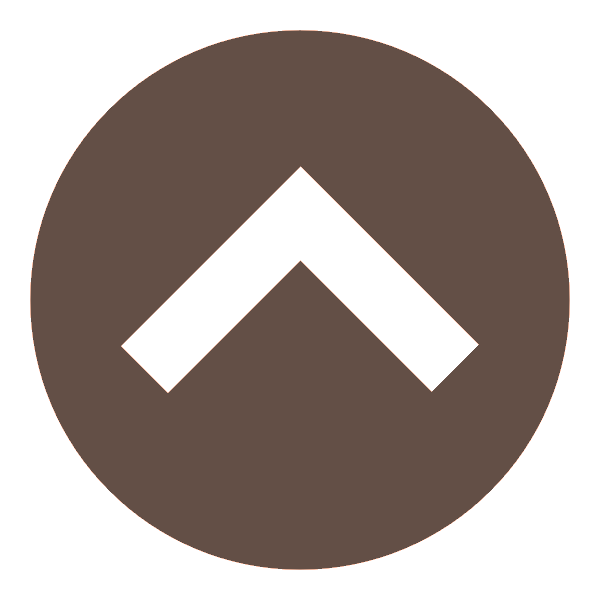
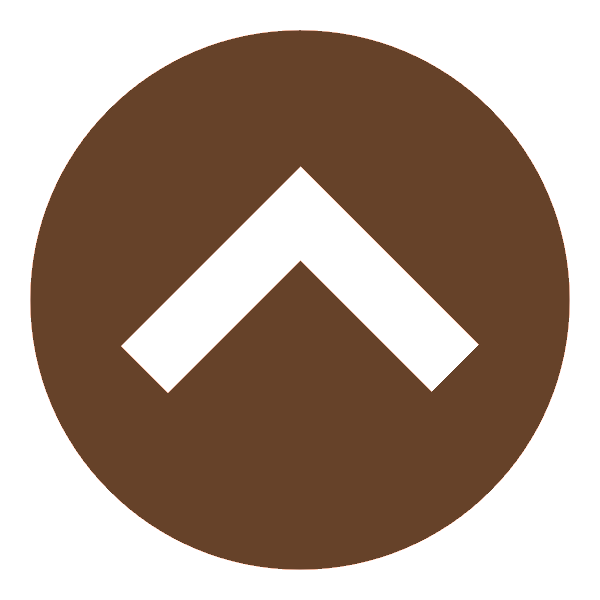
Atualizações de Interface e Páginas Adicionais [Incompleto - v2]

diff --git a/styles.css b/styles.css
@@ -82,16 +82,23 @@ header {
     transition: all 0.5s ease-in-out
 }
 
-#instagram-header {
-    transition: all 0.55s ease-in-out
-}
-
 #facebook-header:hover {
     transform: scale(1.2)
 }
 
+#instagram-header {
+    transition: all 0.55s ease-in-out
+}
 
 #instagram-header:hover {
+    transform: scale(1.2)
+}
+
+#whatsapp-header{
+    transition: all 0.5s ease-in-out
+}
+
+#whatsapp-header:hover{
     transform: scale(1.2)
 }
 
@@ -164,7 +171,8 @@ header {
 }
 
 .carrossel {
-    border: 1px solid black;
+    border: 1px solid #664229;
+    padding: 10px;
 }
 
 #novidades {
@@ -200,6 +208,9 @@ header {
 #quem-somos {
     grid-row: 1 / span 6;
     grid-column: 1 / span 4;
+    border: #664229 1px solid;
+    padding: 10px;
+
 }
 
 
@@ -218,53 +229,42 @@ header {
     background-color: white;
 }
 
-
-
-
-
-/* 
-#botao-lateral a {
-    display: flex;
-    text-decoration: none;
+#contato{
+    border: #664229 1px solid;
     text-align: center;
-    justify-content: center;
-    border-radius: 0 5px 5px 0px;
-    right: 0;
-    transition: 1s;
-    border-radius: 25px;
-    border: 1px solid transparent;
-    width: 50px;
-    margin-left: 10px;
-    position: absolute;
-    bottom: -1680px;
+
 }
 
-#botao-lateral i {
-    font-family: Arial, Helvetica, sans-serif;
-    padding-right: 25px;
-    padding-left: 25px;
-    font-size: 13px;
-    color: #987544;
-    padding-top: 10PX;
-    align-content: center;
+.formulario{
+    /* display: flex; */
+    flex-direction: column;
+    align-items: center;
+    border-top: #664229 1px solid;
+    padding: 30px;
+    
 }
 
-#botao-lateral a:hover {
-    right: 0px;
-    text-align: center;
+.formulario  select{
+    height: 40px;
+    width: 80%;
+    /* border: #664229 1px solid; */
+
 }
 
-#botao-lateral a:hover i {
-    display: ;
+.formulario  input{
+    height: 40px;
+    width: 80%;
+    /* border-radius: 5px; */
+    /* border: #664229 1px solid; */
+
 }
 
-#topo-pagina {
-    background-color: white;
-    opacity: 75%;
-    width: 60px;
-    right: 0;
+#mensagem{
+    margin-top: 10px;
+    height: 125px;
+    margin-bottom: 10px;
 }
- */
+
 
 
 
@@ -281,49 +281,60 @@ footer {
     left: 0;
     right: 0; */
     border: #987544 1px solid;
-    gap: 75px
+    gap: 75px;
+    color: #664229
 }
 
 .footer-1 {
     display: flex;
     gap: 15px;
     justify-self: flex-end;
-    margin-left: 4vw;
+    margin-left: 3.75vw;
 }
-
-.footer-cnpj{
-    width: 300px;
-}
-
 
 .footer-2 {
     display: flex;
     /* flex-direction: row; */
     margin-left: 15vw;
-    gap: 350px;
+    gap: 250px;
     justify-content: space-around;
 }
 
+.footer-2 a {
+    width: 100px;
+    align-self: center;
+}
+
 #facebook-footer {
-    transition: all 0.5s ease-in-out
-}
-
-#whatsapp-footer{
-    transition: all 0.5s ease-in-out
-}
-
-#instagram-footer {
-    transition: all 0.5s ease-in-out
+    transition: all 0.5s ease-in-out;
 }
 
 #facebook-footer:hover {
     transform: scale(1.2)
 }
 
+#instagram-footer {
+    transition: all 0.5s ease-in-out
+}
+
+#instagram-footer:hover {
+    transform: scale(1.2)
+}
+
+#whatsapp-footer{
+    transition: all 0.5s ease-in-out
+}
+
 #whatsapp-footer:hover{
     transform: scale(1.2)
 }
 
-#instagram-footer:hover {
+#topo-pagina {
+    width: 60px;
+    justify-self: flex-end;
+    transition: all 0.5s ease-in-out
+}
+
+#topo-pagina:hover {
     transform: scale(1.2)
 }

diff --git a/index.html b/index.html
@@ -24,6 +24,8 @@
                     width="40px" id="instagram-header"></a>
             <a href="https://facebook.com" target="_blank"><img src="Medias/facebook-icone.png" height="40px"
                     width="40px" class="facebook-icone" id="facebook-header"></a>
+            <a href="https://whatsapp.com" target="_blank"><img src="Medias/whatsapp-icone.png" height="40px"
+                    width="40px" id="whatsapp-header"></a>
         </section>
 
         <nav></nav>
@@ -41,7 +43,8 @@
 
         <section class="segunda-parte">
             <article id="quem-somos">
-                <h1>Quem Somos</h1>
+                <h1>Quem Somos</h1></br>
+                <p>texto teste</p>
             </article>
             <article class="carrossel" id="novidades">
                 <h1>Novidades</h1>
@@ -69,16 +72,29 @@
                     referrerpolicy="no-referrer-when-downgrade" id="mapa"></iframe>
             </article>
             <article class="sobre" id="contato">
+
                 <h1>Fale Conosco/Contato</h1>
+
+                <article class="formulario">
+                    <form action="#"></form>
+
+                    <input type="text" name="nome" id="nome" placeholder="Nome completo"></br>
+                    <input type="text" name="email" id="email" placeholder="E-mail"></br>
+                    <input type="tel" name="telefone" id="telefone" pattern="[0-9]{2}-[0-9]{4}-[0-9]{5}" required
+                        placeholder="(DDD) xxxx-xxxxx"></br>
+                    <select name="assunto">
+                        <option value="sugestao">Sugestão</option>
+                        <option value="reclamacao">Reclamação</option>
+                        <option value="outros">Outros</option>
+                    </select><br />
+                    <input type="text" name="mensagem" id="mensagem" placeholder="Digite sua mensagem."></br>
+                    <input type="submit" id="submit">
+                </article>
+
             </article>
         </section></br></br>
 
     </main>
-
-    <!-- <div id="botao-lateral">
-        <a href="#" id="topo-pagina"><img src="Medias/iconTopoPagina.png" height="50px" width="50px"><i
-                aria-hidden="true"><strong></strong></i></a>
-    </div> -->
 
     <footer>
         <section class="footer-1" id="icons-footer">
@@ -99,12 +115,12 @@
             </article>
         </section>
 
-
         <section class="footer-2">
             <a href="FAQ.html" target="_blank"><strong>FAQ (Perguntas Frequentes)</strong></a>
             <a href="PecaJa.html" target="_blank"><strong>Peça já!</strong></a>
+            <a href="#" id="topo-pagina"><img src="Medias/iconTopoPagina.png" height="50px" width="50px"><i
+                    aria-hidden="true"><strong></strong></i></a>
         </section>
-
     </footer>
 </body>
 
